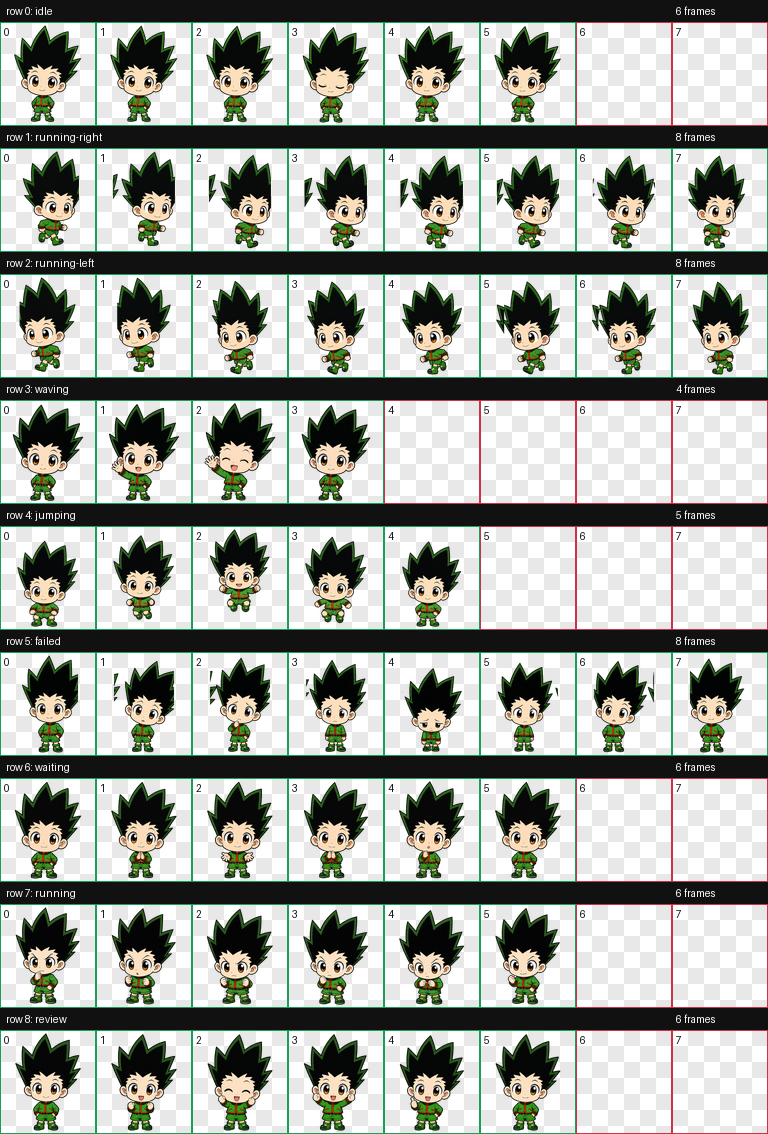
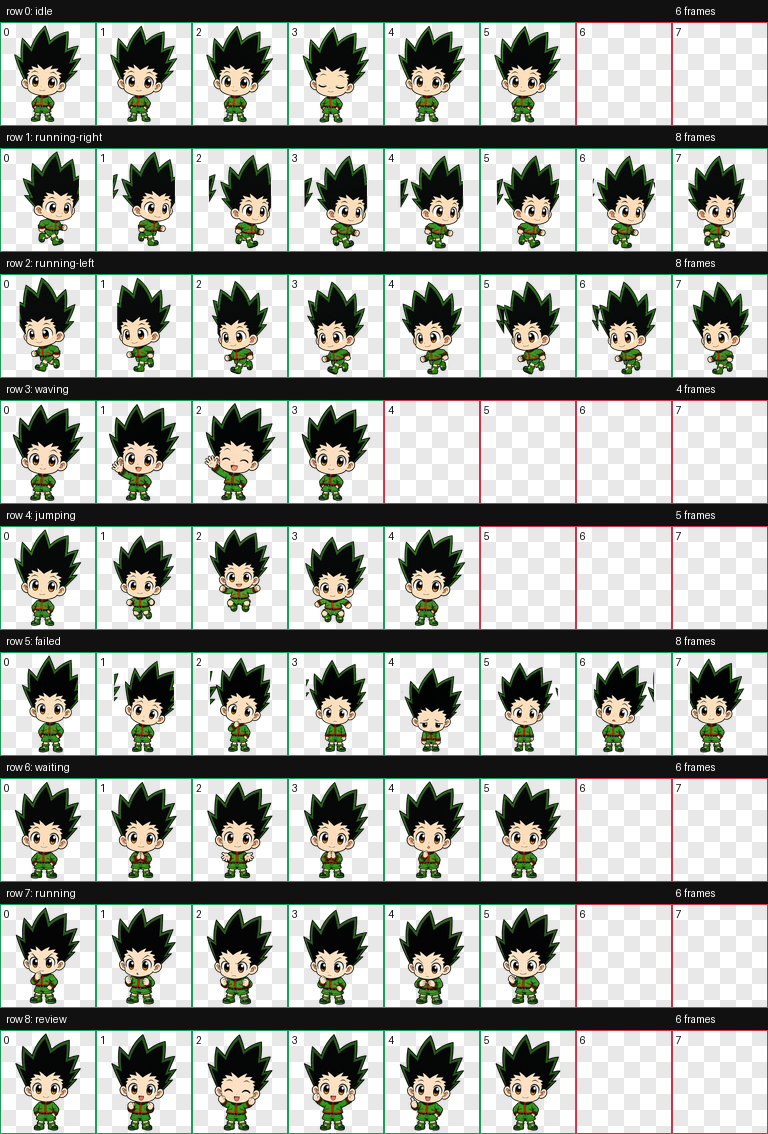
Add Uvogin and fix hover jump animations

Changed region(s): [[0.5, 0.463, 0.625, 0.5556], [0.0, 0.463, 0.125, 0.5556]]

diff --git a/README.md b/README.md
@@ -11,6 +11,7 @@ This repository contains multiple fan-made pets and is structured so more charac
 | `cool-killua` | Killua Zoldyck / 奇犽·揍敌客 | [Contact sheet](previews/cool-killua-contact-sheet.png) |
 | `cute-killua` | Cute Killua / 萌版奇犽 | [Contact sheet](previews/cute-killua-contact-sheet.png) |
 | `cute-gon` | Cute Gon / 萌版小杰 | [Contact sheet](previews/cute-gon-contact-sheet.png) |
+| `uvogin` | Uvogin / 窝金 | [Contact sheet](previews/uvogin-contact-sheet.png) |
 
 ## Preview
 
@@ -38,6 +39,7 @@ This repository contains multiple fan-made pets and is structured so more charac
 <p align="center">
   <img src="previews/cute-killua-idle.gif" alt="Cute Killua idle animation" width="180">
   <img src="previews/cute-killua-waving.gif" alt="Cute Killua waving animation" width="180">
+  <img src="previews/cute-killua-jumping.gif" alt="Cute Killua jumping animation" width="180">
   <img src="previews/cute-killua-running.gif" alt="Cute Killua task animation with electricity" width="180">
 </p>
 
@@ -50,7 +52,21 @@ This repository contains multiple fan-made pets and is structured so more charac
 <p align="center">
   <img src="previews/cute-gon-idle.gif" alt="Cute Gon idle animation" width="180">
   <img src="previews/cute-gon-waving.gif" alt="Cute Gon waving animation" width="180">
+  <img src="previews/cute-gon-jumping.gif" alt="Cute Gon jumping animation" width="180">
   <img src="previews/cute-gon-running.gif" alt="Cute Gon task animation" width="180">
+</p>
+
+### `uvogin` / 窝金
+
+<p align="center">
+  <img src="previews/uvogin-contact-sheet.png" alt="Uvogin animation contact sheet" width="720">
+</p>
+
+<p align="center">
+  <img src="previews/uvogin-idle.gif" alt="Uvogin idle animation" width="180">
+  <img src="previews/uvogin-waving.gif" alt="Uvogin waving animation" width="180">
+  <img src="previews/uvogin-jumping.gif" alt="Uvogin jumping animation" width="180">
+  <img src="previews/uvogin-running-right.gif" alt="Uvogin moving right animation" width="180">
 </p>
 
 ## Install
@@ -63,7 +79,7 @@ Copy one desired pet directory into your Codex custom pets folder:
   spritesheet.webp
 ```
 
-Available pet IDs: `cool-killua`, `cute-killua`, and `cute-gon`.
+Available pet IDs: `cool-killua`, `cute-killua`, `cute-gon`, and `uvogin`.
 
 In Codex, open **Settings > Personalization > Pets**, refresh custom pets, select the new pet, and wake it if it is hidden.
 
@@ -84,11 +100,14 @@ The spritesheet uses the Codex custom pet atlas format:
 - `192 x 208` pixels per cell
 - nine animation rows: idle, moving right, moving left, waving, jumping, failed, waiting, running/task work, and review
 
+`jumping` begins and ends in an idle-like standing pose because Codex may enter this animation when the pointer hovers over a pet.
+
 ## Project Status
 
 - `cool-killua`: available
 - `cute-killua`: available
 - `cute-gon`: available
+- `uvogin`: available
 - Additional *Hunter x Hunter* pets: planned
 
 ## Disclaimer
@@ -101,7 +120,7 @@ This is an unofficial, fan-made project and is not affiliated with or endorsed b
 
 # 全职猎人 Codex 桌面宠物
 
-这是一个非官方粉丝项目，用于收集可在 Codex 中使用的《全职猎人》动画桌面宠物。当前包含酷奇犽、萌版奇犽和萌版小杰，后续可继续在 `pets/` 下扩展更多角色及造型版本。
+这是一个非官方粉丝项目，用于收集可在 Codex 中使用的《全职猎人》动画桌面宠物。当前包含酷奇犽、萌版奇犽、萌版小杰和窝金，后续可继续在 `pets/` 下扩展更多角色及造型版本。
 
 安装时将所需的 `pets/<pet-id>` 文件夹复制到 `%USERPROFILE%\.codex\pets\`，然后在 Codex 的 **设置 > 个性化 > 宠物** 中刷新并选择该宠物。
 
